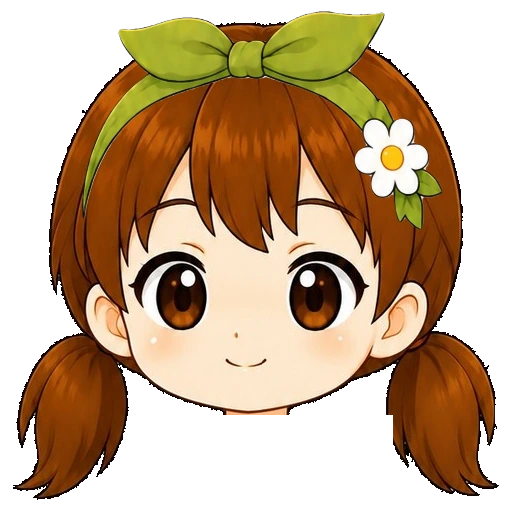
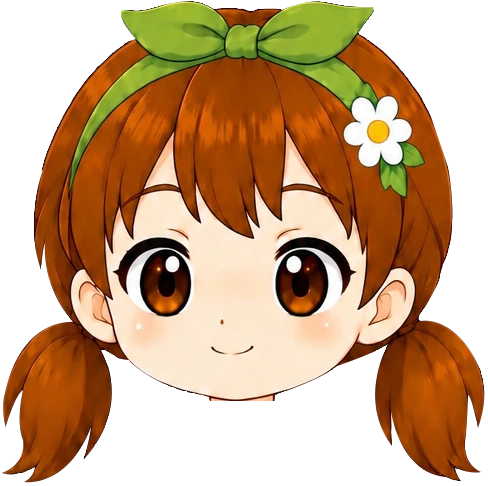
여아 들꽃 머리띠 새 원화로 교체 (#870)
머리띠+얼굴·양갈래 한 장 원화를 얼굴 템플릿 매칭(0.976)으로 배율 0.688 에 맞추고 hidesHead 로 여아 기본 머리를 대신한다. img ?v=4.

Claude-Session: https://claude.ai/code/session_018maNuYqDfFyRSe9uKpZhPR

diff --git a/src/data/avatarEquipment.js b/src/data/avatarEquipment.js
@@ -204,7 +204,10 @@ export const AVATAR_CATALOG = [
      [2026-08-20] '베이스가 쓰고 있는 머리 그림'을 새로 받아 다시 탑재했다(?v=3).
      예전엔 머리띠만 오려 낸 그림을 눈으로 맞춰서 머리보다 크게 얹혀 있었다
      (탑재 상자 362~659 → 391~640, 머리 폭 안으로 들어옴). art-src/README 참고. */
-  { id: "hat_safari",     slot: "hat",   label: "들꽃 머리띠", emoji: "🌼", price:DECOR_PRICE.rare, rarity: "rare",   theme: "adventure", forGender: "girl", img: "assets/avatar/hat/safari-band-girl.webp?v=3", thumb: "assets/avatar/thumb/hat_safari.webp" },
+  /* [2026-10-04] 들꽃 머리띠 새 원화로 교체 — 머리띠 + 얼굴·양갈래 머리 한 장(사용자 원화 488×486). 위 탑재값은 옛 판 기록.
+     남아 캡모자들처럼 hidesHead 로 여아 기본 머리 장을 빼고 이 그림이 머리를 대신한다. 얼굴(눈~입) 템플릿 매칭(일치 0.976)으로
+     배율 0.688, 원점 (346,87). 양갈래가 목 아래로 내려와 여아 기본 머리처럼 아래를 자르지 않았다(목 이음매 없음). 탑재 상자 (346,87,682,421). img ?v=4. */
+  { id: "hat_safari",     slot: "hat",   label: "들꽃 머리띠", emoji: "🌼", price:DECOR_PRICE.rare, rarity: "rare",   theme: "adventure", forGender: "girl", hidesHead: true, img: "assets/avatar/hat/safari-band-girl.webp?v=4", thumb: "assets/avatar/thumb/hat_safari.webp" },
   /* 해적 모자 — 머리띠와 같은 방식('베이스가 쓰고 있는 머리 그림' → 얼굴 상자로 맞춤).
      챙이 이마를 덮지만 얼굴은 그대로 보이므로 hidesHead 는 안 쓴다.
      떼어낼 때 가장 큰 덩어리에 앞머리·눈까지 딸려 와서(모자를 쓰면 앞머리가 다르게 그려진다)

diff --git a/art-src/README.md b/art-src/README.md
@@ -381,7 +381,7 @@ getBoundingClientRect로 재서 정한다. 2026-08-05 점검에서 이 기준을
 | pirate-girl-hat-worn-src.webp | **해적 모자 원화 여아 (사용자 원화 2026-08-20)** — 베이스 v7 여아가 **쓰고 있는 머리 그림**(664×592, 투명). 남색 삼각모 + 주황 테두리 + 불가사리. 얼굴 상자로 맞춤(배율 0.6336) · 탑재 상자 (313,58)-(723,329) | avatar/hat/pirate-hat-girl.webp |
 | safari-boy-outfit-src.webp | **사파리 옷 원화 남아 v2 (사용자 원화 2026-10-02)** — 493×594, 투명 배경, **옷만 오려 낸 그림**(알파 상자 (30,36)-(462,558)). 초록 긴소매(팔꿈치까지 걷음) 티셔츠 + 카키 카고 조끼 + 카키 카고 반바지. 예전 판(크림 셔츠 + 탄색 조끼)을 대체했고 규칙 6에 따라 같은 이름으로 덮어썼다. **목 살 떼기** — 원화 깃 위로 목·쇄골 살이 그려져 있어, 가장 큰 살색 덩어리의 열 범위에서 초록 깃의 위끝을 4차 곡선으로 매끈하게 이은 선 위를 전부 지우고 그 자리에 2px 짙은 갈색(58,44,34) 깃선을 다시 그렸다 — 베이스의 목이 그대로 보인다. **맞춤** — 베이스 v9 남아 기준, 배율·가로배·위치를 격자로 훑어 "안 가려진 흰 속옷×3 + 안 가려진 어깨(y420~540) + 목 살 덮음 + 몸 밖 불룩×0.5"가 최소인 값: 배율 **0.65** · 가로 **1.02배** · 위끝 **y402** · 가로 중심 **515** → 탑재 상자 (372,402)-(658,733). 소매 끝이 팔꿈치(y≈560), 반바지 끝이 허벅지 가운데. **가랑이 V 메움** — y640~715 · x480~550 에서 "베이스 불투명 + 옷 알파<250" 116px 을 반바지 색 (124,114,74) 으로 채웠다(흰 속옷이 비치던 자리). 자홍 배경 검사: 연결 조각 1 · 안쪽 구멍 0. **[사용자 확정 2026-10-02] 격자로 보며 미세 조정** — 3px 내림 → 2% 키움 → 1px 올림 → 배율 **0.663** · 가로 1.02배 · 위끝 **y404** · 중심 515 → 탑재 상자 **(369,404)-(661,741)**. 가랑이 메움은 같은 규칙으로 64px. 몸통 쪽 안 가려진 속옷 1px. 경로 ?v=6 | avatar/top/safari-outfit-boy.webp · thumb/top_vest.webp |
 | safari-boy-outfit-edit-src.webp | **사파리 옷 남아 — 사용자 손질본 (2026-10-02)**. 위 원화를 배율 0.6564 · 가로 1.02배 · 위끝 y404 · 중심 x514 로 얹은 판을 알파 상자대로 잘라(290×335) 보내 드렸더니, 사용자가 **어깨만 살짝 늘려** 돌려준 그림. 캔버스 크기가 그대로라 (370,404) 에 놓으면 원래 판과 어긋남 0 으로 겹친다(알파 차이 379px — 전부 어깨·소매 둘레). **탑재본은 이 그림을 그대로 쓴다** — 원화(위 행)에서 다시 만들면 어깨 손질이 사라진다. **[2026-10-02 재조정]** 손질본을 **1% 확대** — 배율 0.663 · 가로 1.02배 · 위끝 y404 · 중심 x516 (박스 369,404-662,742). 가랑이 V 메움은 하지 않는다 (사용자 확정). 경로 ?v=9 · 썸네일 ?v=5 | avatar/top/safari-outfit-boy.webp · thumb/top_vest.webp |
-| safari-girl-band-worn-src.webp | **사파리 머리띠 원화 여아 v2 (사용자 원화 2026-08-20)** — 베이스 v7 여아가 **쓰고 있는 머리 그림**(512×512, 투명). 초록 리본 머리띠 + 관자놀이 데이지. 예전 '머리띠만 오려 낸' 원화(safari-girl-band-src)는 지웠다 | avatar/hat/safari-band-girl.webp |
+| safari-girl-band-worn-src.webp | **들꽃 머리띠 원화 여아 — 새 판 (사용자 원화 2026-10-04, 이전 판 교체)** — 488×486 투명 배경, 초록 리본 머리띠(흰 들꽃) + 얼굴·양갈래 머리 한 장. hidesHead 로 여아 기본 머리를 대신한다. 얼굴 템플릿 매칭(일치 0.976)으로 배율 0.688·원점 (346,87), 아래는 자르지 않음. 탑재 상자 (346,87,682,421) · img ?v=4 | avatar/hat/safari-band-girl.webp |
 | safari-girl-outfit-src.webp | **사파리 옷 원화 여아 — 새 판 (사용자 원화 2026-10-02, 이전 판 교체)**. 356×465 투명 배경, 크림 블라우스(데이지 자수 둥근 깃·퍼프 소매) + 갈색 벨트 초록 반바지 한 벌. 위쪽에 목(턱 없음)이 함께 그려져 있다. 원화 목 외곽선 x149.5~212.5(폭 63, 중심 181)를 여아 목 x490.5~534.5 중심 512.5 에, 목이 어깨로 넓어지는 원화 y15 를 여아 y372 에 맞추고 배율 0.70(목 폭이 같아지는 값 · 수영복 비침 1px, 가장 작게 덮는 값은 0.67). 목 살(r−b>70)과 목 옆선은 원화 y4→20 동안 0→1 페이드. 조각 1개. 탑재 상자 (386,362)-(635,688) · imgGirl ?v=5 | avatar/top/safari-outfit-girl.webp · thumb/top_vest-girl.webp |
 | safari-girl-boot-src.webp | 사파리 부츠 원화 여아 한 짝 (정면, 좌우 반전해서 한 켤레로) | **(상점에서 뺌 2026-08-20)** — 그림은 avatar/shoes/safari-boots-girl.webp 에 그대로 있다. 다시 넣을 때 재사용 |
 | safari-girl-set-src.webp | 사파리 세트 전체 시트 여아 — 가방은 여기서 오려 냈다 | avatar/back/safari-bag-girl.webp |
